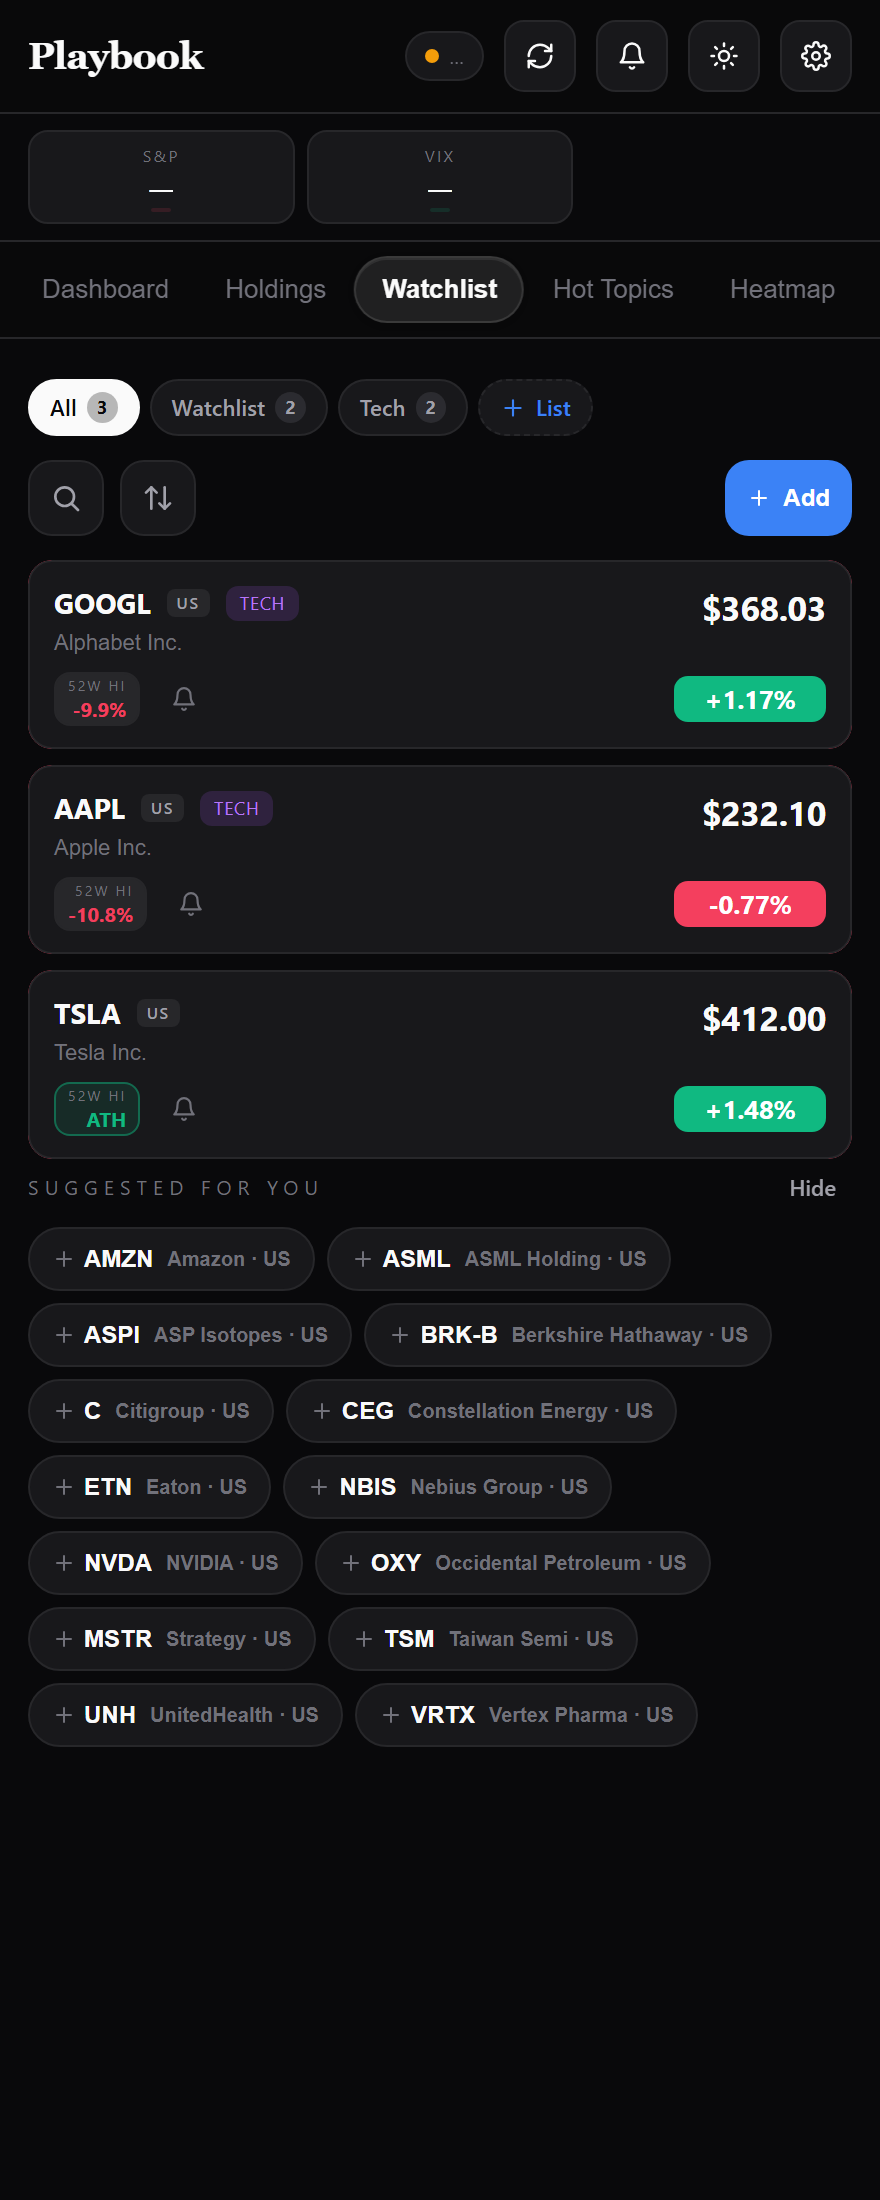
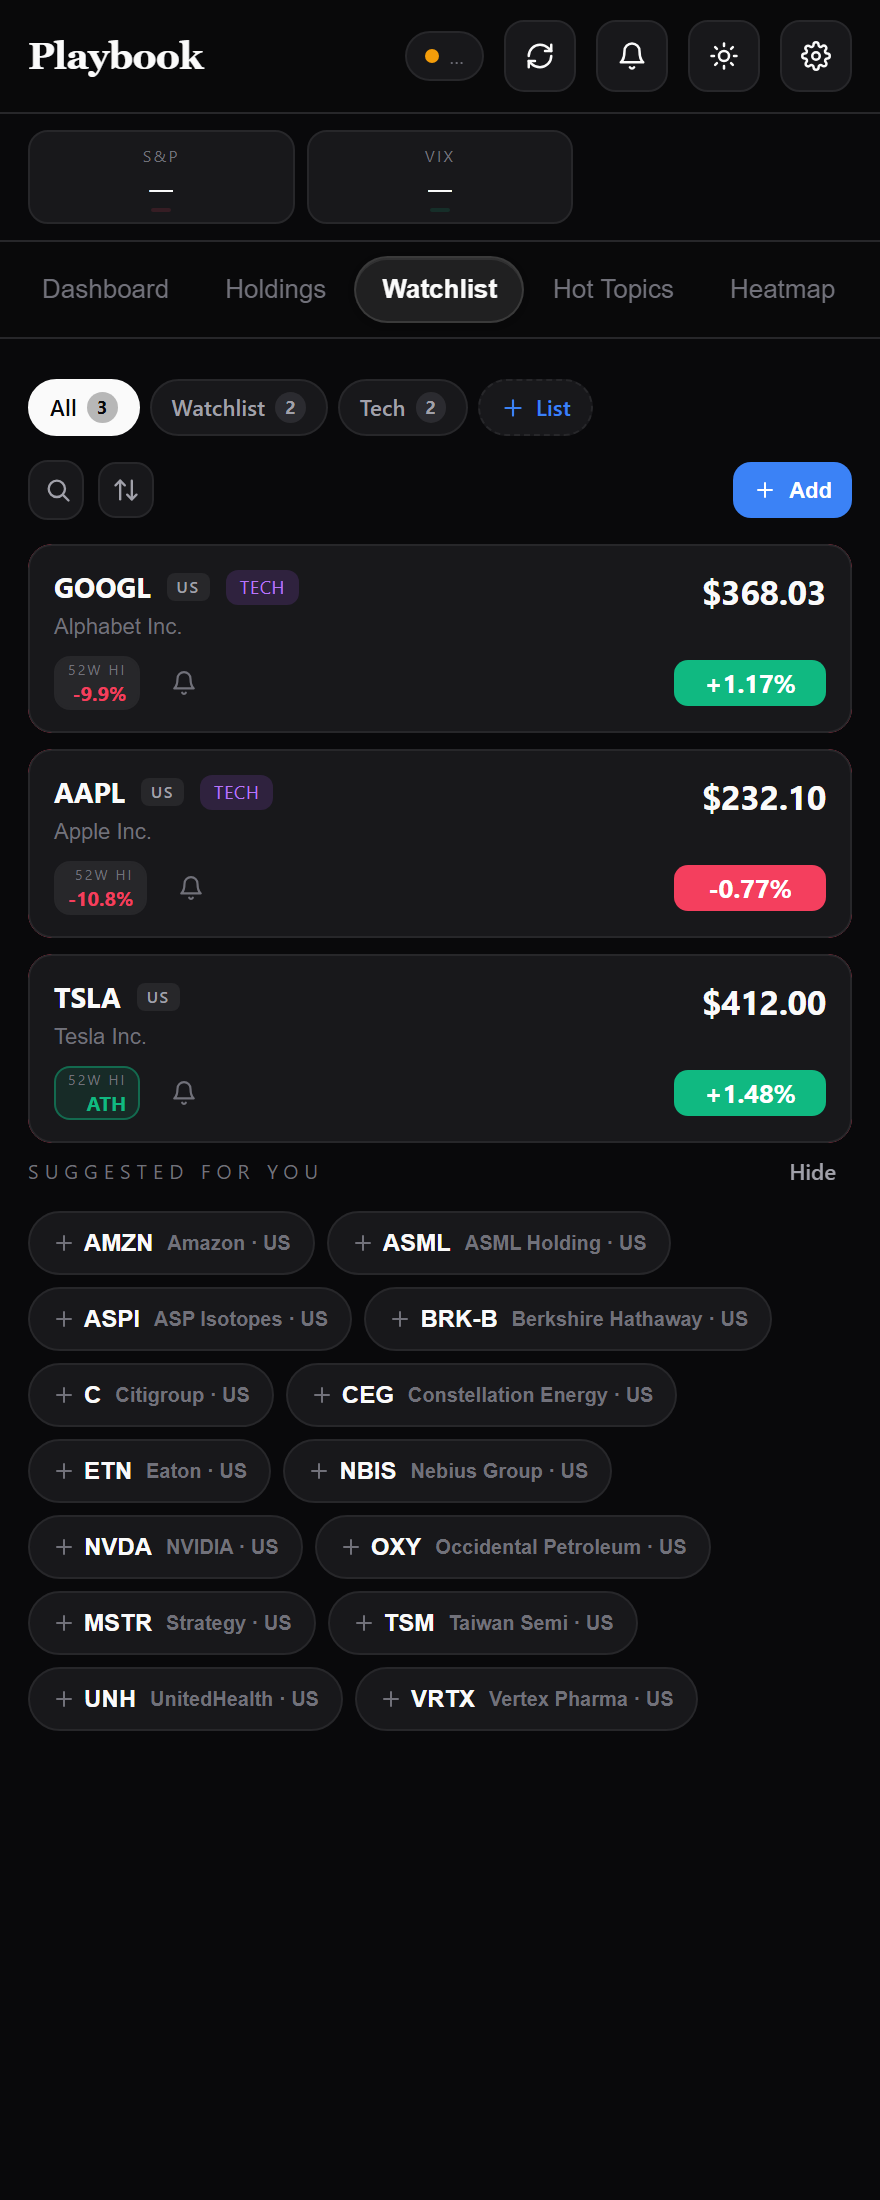
Enhance holdings view with new action cluster and UI improvements
- Introduced a new action cluster for sorting, importing, and adding holdings, positioned beneath the market summary for better accessibility.
- Updated the UI to use compact button sizing consistent with the watchlist toolbar, improving visual coherence.
- Enhanced the empty state display for markets with no positions, integrating action buttons for adding holdings directly.
- Adjusted styles for buttons and action clusters to improve alignment and spacing, ensuring a cleaner layout.

These changes aim to streamline user interactions with holdings and enhance overall usability in the portfolio management interface.

diff --git a/app.js b/app.js
@@ -5416,17 +5416,48 @@ function CurrentView(_ref7) {
             " · ", (dayUp ? '+' : '') + s.dayPct.toFixed(2) + '%')) : null));
   };
 
+  // Sort + Import + Add cluster. Lives directly beneath the market summary (or
+  // above the empty state) rather than up in the tab row, and uses the compact
+  // button sizing shared with the watchlist toolbar.
+  const renderActions = (market, count) => React.createElement("div", {
+    className: "holdings-actions holdings-actions-bar", style: { position: 'relative' }
+  },
+    count > 1 ? React.createElement("button", {
+      className: "wl-iconbtn" + (sortOpen ? " active" : "") + (sortMode !== 'manual' ? " on" : ""),
+      "aria-label": "Sort holdings", "aria-expanded": sortOpen,
+      onClick: () => setSortOpen(o => !o)
+    }, React.createElement(Icon, { name: "sort", size: 13 }),
+       sortMode !== 'manual' ? React.createElement("span", { className: "wl-iconbtn-dot" }) : null) : null,
+    onImportPositions ? React.createElement("button", { className: "btn btn-secondary btn-xs", onClick: onImportPositions },
+      React.createElement(Icon, { name: "download", size: 11 }), " Import") : null,
+    React.createElement("button", { className: "btn btn-primary btn-xs", onClick: onAddPosition },
+      React.createElement(Icon, { name: "plus", size: 11 }), " Add"),
+    // Sort popover anchored to the cluster's right edge so it stays on-screen.
+    sortOpen ? React.createElement(React.Fragment, null,
+      React.createElement("button", { className: "wl-pop-backdrop", "aria-label": "Close", onClick: () => setSortOpen(false) }),
+      React.createElement("div", { className: "wl-sortmenu", style: { left: 'auto', right: 0, transformOrigin: 'top right' } },
+        React.createElement("div", { className: "wl-sortmenu-head" }, "Sort by"),
+        sortOptions.map(o => React.createElement("button", {
+          key: o.id, className: "wl-sortmenu-row" + (sortMode === o.id ? " active" : ""),
+          onClick: () => { setSortMode(o.id); setSortOpen(false); }
+        }, React.createElement("span", { className: "wl-sortmenu-label" }, o.label),
+           sortMode === o.id ? React.createElement(Icon, { name: "check", size: 14 }) : null)))
+    ) : null);
+
   const renderMarket = (market) => {
     const rows = positions.filter(p => p.market === market);
     if (rows.length === 0) {
-      return React.createElement("div", { className: "empty" },
-        React.createElement(Icon, { name: "briefcase", size: 40 }),
-        React.createElement("h3", null, "No ", tabLabel(market), " positions yet"),
-        React.createElement("p", null, "Add your ", tabLabel(market), " holdings using the Add button above."));
+      return React.createElement("div", null,
+        renderActions(market, 0),
+        React.createElement("div", { className: "empty" },
+          React.createElement(Icon, { name: "briefcase", size: 40 }),
+          React.createElement("h3", null, "No ", tabLabel(market), " positions yet"),
+          React.createElement("p", null, "Add your ", tabLabel(market), " holdings using the Add button above.")));
     }
     const sorted = sortRows(rows, market);
     return React.createElement("div", null,
       renderSummary(rows, market),
+      renderActions(market, rows.length),
       React.createElement("div", {
       className: "eyebrow"
     }, "Your ", tabLabel(market), " positions"), React.createElement(HoldingsListHead, null), React.createElement("div", {
@@ -5457,29 +5488,7 @@ function CurrentView(_ref7) {
   },
     React.createElement("span", { className: "toggle-opt-label" }, tabLabel(m)),
     React.createElement("span", { className: "toggle-opt-count" }, countFor(m))
-  ))),
-    React.createElement("div", { className: "holdings-actions", style: { position: 'relative' } },
-      countFor(activeMarket) > 1 ? React.createElement("button", {
-        className: "wl-iconbtn" + (sortOpen ? " active" : "") + (sortMode !== 'manual' ? " on" : ""),
-        "aria-label": "Sort holdings", "aria-expanded": sortOpen,
-        onClick: () => setSortOpen(o => !o)
-      }, React.createElement(Icon, { name: "sort", size: 13 }),
-         sortMode !== 'manual' ? React.createElement("span", { className: "wl-iconbtn-dot" }) : null) : null,
-      onImportPositions ? React.createElement("button", { className: "btn btn-secondary btn-sm", onClick: onImportPositions },
-        React.createElement(Icon, { name: "download", size: 12 }), " Import") : null,
-      React.createElement("button", { className: "btn btn-primary btn-sm", onClick: onAddPosition },
-        React.createElement(Icon, { name: "plus", size: 12 }), " Add"),
-      // Sort popover anchored to the cluster's right edge so it stays on-screen.
-      sortOpen ? React.createElement(React.Fragment, null,
-        React.createElement("button", { className: "wl-pop-backdrop", "aria-label": "Close", onClick: () => setSortOpen(false) }),
-        React.createElement("div", { className: "wl-sortmenu", style: { left: 'auto', right: 0, transformOrigin: 'top right' } },
-          React.createElement("div", { className: "wl-sortmenu-head" }, "Sort by"),
-          sortOptions.map(o => React.createElement("button", {
-            key: o.id, className: "wl-sortmenu-row" + (sortMode === o.id ? " active" : ""),
-            onClick: () => { setSortMode(o.id); setSortOpen(false); }
-          }, React.createElement("span", { className: "wl-sortmenu-label" }, o.label),
-             sortMode === o.id ? React.createElement(Icon, { name: "check", size: 14 }) : null)))
-      ) : null)),
+  )))),
     renderMarket(activeMarket));
 }
 // Shorthand / index names brokers and people actually use for instruments whose
@@ -9310,8 +9319,8 @@ function TFSAView({ positions, prices, onOpenDetail, onAddPosition, onEditPositi
       ? React.createElement(React.Fragment, null,
           React.createElement("div", { className: "flex justify-between items-center mb-3" },
             React.createElement("div", { className: "eyebrow", style: { marginBottom: 0 } }, "Your holdings"),
-            React.createElement("button", { className: "btn btn-primary btn-sm", onClick: onAddPosition },
-              React.createElement(Icon, { name: "plus", size: 13 }), " Add")),
+            React.createElement("button", { className: "btn btn-primary btn-xs", onClick: onAddPosition },
+              React.createElement(Icon, { name: "plus", size: 12 }), " Add")),
           React.createElement("div", { className: "empty empty-tfsa mb-4" },
             React.createElement(Icon, { name: "briefcase", size: 40 }),
             React.createElement("h3", null, "No TFSA holdings"),
@@ -9320,8 +9329,8 @@ function TFSAView({ positions, prices, onOpenDetail, onAddPosition, onEditPositi
           title: "Your holdings", icon: "briefcase", defaultOpen: true, badge: positions.length
         },
           React.createElement("div", { style: { display: 'flex', justifyContent: 'flex-end', marginBottom: 10 } },
-            React.createElement("button", { className: "btn btn-primary btn-sm", onClick: onAddPosition },
-              React.createElement(Icon, { name: "plus", size: 13 }), " Add holding")),
+            React.createElement("button", { className: "btn btn-primary btn-xs", onClick: onAddPosition },
+              React.createElement(Icon, { name: "plus", size: 12 }), " Add holding")),
           React.createElement(HoldingsListHead, null),
           React.createElement("div", { className: "row-list" },
           positions.map(p => React.createElement(HoldingRow, {

diff --git a/styles.css b/styles.css
@@ -557,7 +557,10 @@ main.view-slide-left, main.view-slide-right { animation: view-fade 0.26s cubic-b
 .hsum-today-arrow { font-size: 8px; line-height: 1; }
 /* Holdings action cluster — sort + import + add, pinned to the right. The sort
    popover anchors to this cluster's right edge so it never opens off-screen. */
-.holdings-actions { display: flex; align-items: center; gap: 8px; margin-left: auto; }
+.holdings-actions { display: flex; align-items: center; gap: 7px; margin-left: auto; }
+/* When the cluster sits on its own row beneath the summary it spans the width,
+   so right-align it and give it breathing room before the positions list. */
+.holdings-actions-bar { justify-content: flex-end; margin: 0 0 12px; }
 /* Subtle column header above a holdings list — labels the three zones
    (Holding · P/L · Current value). Mirrors the row's horizontal padding and
    the P/L / value margins so the labels sit over their columns and the value
@@ -1948,9 +1951,9 @@ main.view-slide-left, main.view-slide-right { animation: view-fade 0.26s cubic-b
 /* Action row: collapsed search/sort icon buttons + Add, all on one line. The
    search field expands inline (iOS-style) and the sort opens a popover menu. */
 .wl-toolbar { display: flex; align-items: center; gap: 7px; margin-bottom: 12px; }
-.wl-add-btn { flex: 0 0 auto; margin-left: auto; height: 32px; min-height: 32px; padding: 0 12px; font-size: 12px; border-radius: 10px; }
+.wl-add-btn { flex: 0 0 auto; margin-left: auto; height: 28px; min-height: 28px; padding: 0 10px; font-size: 11px; border-radius: 9px; }
 .wl-iconbtn {
-  flex: 0 0 auto; width: 32px; height: 32px; border-radius: 10px; position: relative;
+  flex: 0 0 auto; width: 28px; height: 28px; border-radius: 9px; position: relative;
   display: inline-flex; align-items: center; justify-content: center;
   background: var(--bg-raised); border: 1px solid var(--border); color: var(--text-muted);
   cursor: pointer; -webkit-tap-highlight-color: transparent;
@@ -1962,14 +1965,14 @@ main.view-slide-left, main.view-slide-right { animation: view-fade 0.26s cubic-b
 .wl-iconbtn.on { color: var(--blue); border-color: color-mix(in srgb, var(--blue) 45%, var(--border)); }
 .wl-iconbtn.active.on { color: var(--bg); border-color: var(--text); }
 .wl-iconbtn-dot {
-  position: absolute; top: 5px; right: 5px; width: 5px; height: 5px; border-radius: 50%;
+  position: absolute; top: 4px; right: 4px; width: 5px; height: 5px; border-radius: 50%;
   background: var(--blue); box-shadow: 0 0 0 2px var(--bg-raised);
 }
 .wl-iconbtn.active .wl-iconbtn-dot { display: none; }
 /* Inline-expanding search — the icon button lives inside the pill, which grows
    from a 38px square to fill the row via an animated flex-basis. */
 .wl-search2 {
-  display: flex; align-items: center; flex: 0 0 32px; min-width: 32px; overflow: hidden;
+  display: flex; align-items: center; flex: 0 0 28px; min-width: 28px; overflow: hidden;
   background: var(--bg-raised); border: 1px solid var(--border); border-radius: 10px;
   transition: flex-basis 0.42s cubic-bezier(0.32, 0.72, 0, 1), border-color 0.22s, box-shadow 0.22s, background 0.22s;
 }
@@ -1978,7 +1981,7 @@ main.view-slide-left, main.view-slide-right { animation: view-fade 0.26s cubic-b
   border-color: color-mix(in srgb, var(--blue) 50%, var(--border));
   box-shadow: 0 0 0 3px color-mix(in srgb, var(--blue) 13%, transparent);
 }
-.wl-search2 .wl-iconbtn { background: transparent; border: none; width: 32px; height: 32px; color: var(--text-muted); }
+.wl-search2 .wl-iconbtn { background: transparent; border: none; width: 28px; height: 28px; color: var(--text-muted); }
 .wl-search2.open .wl-iconbtn { color: var(--blue); }
 .wl-search2 .wl-iconbtn:active { transform: scale(0.82); }
 .wl-search2-input {
